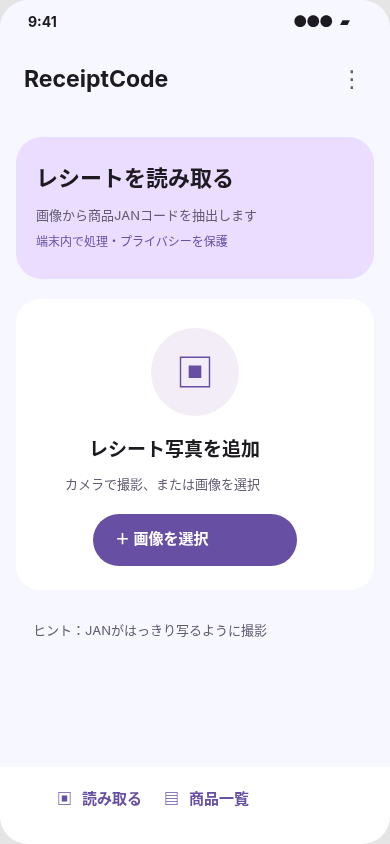
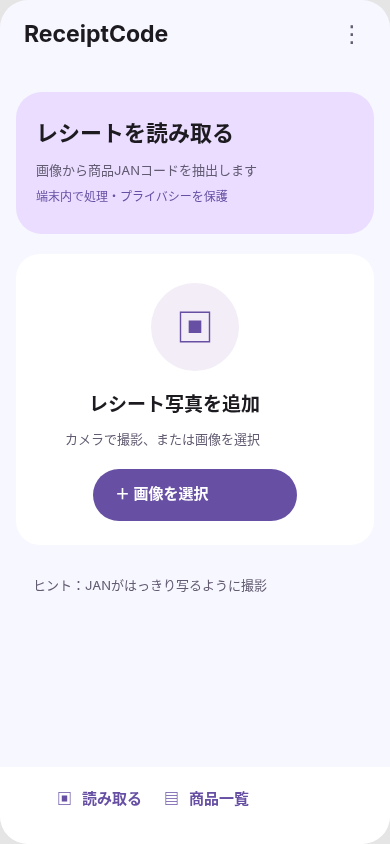
疑似ステータスバーを削除し上部の余白を詰める

diff --git a/src/styles.css b/src/styles.css
@@ -40,8 +40,6 @@ main:focus { outline: none; }
 .visually-hidden { position: absolute !important; width: 1px; height: 1px; padding: 0; margin: -1px; overflow: hidden; clip: rect(0, 0, 0, 0); white-space: nowrap; border: 0; }
 /* 390 × 844 is the reference canvas. Extra content grows vertically. */
 .app { position: relative; isolation: isolate; width: 100%; max-width: 390px; min-height: max(844px, 100dvh); margin: 0 auto; display: flex; flex-direction: column; border-radius: 28px; overflow: clip; background: var(--bg); }
-.design-status-bar { height: 45px; flex: 0 0 45px; display: flex; align-items: flex-start; justify-content: space-between; padding: 13px 40px 0 28px; font-size: 14px; font-weight: 700; line-height: 17px; }
-.design-status-icons { font-size: 13px; line-height: 16px; font-weight: 400; white-space: pre; }
 .app-header { height: 72px; flex: 0 0 72px; display: flex; align-items: flex-start; justify-content: space-between; padding: 20px 14px 0 24px; }
 .brand-name { font-size: 23px; line-height: 28px; font-weight: 700; }
 .app-menu { position: relative; margin-top: -10px; }

diff --git a/src/components/AppHeader.tsx b/src/components/AppHeader.tsx
@@ -8,10 +8,6 @@ interface AppHeaderProps {
 export function AppHeader({ onBack, children }: AppHeaderProps) {
   return (
     <>
-      <div className="design-status-bar" aria-hidden="true">
-        <span>9:41</span>
-        {!onBack && <span className="design-status-icons">●●●  ▰</span>}
-      </div>
       <header className="app-header">
         {onBack ? (
           <button type="button" className="button button-quiet back-link" onClick={onBack}>‹ 商品一覧</button>

diff --git a/docs/Material3_Implementation.md b/docs/Material3_Implementation.md
@@ -20,7 +20,7 @@ Figma: https://www.figma.com/design/EkLDLqz36f4daWXms8Xton
 - React / TypeScript / CSS を継続し、依存を追加しない。色・形状・余白をCSSトークンにする。
 - Figmaの390×844の構成を基準に、固定座標をFlex/Gridと最小サイズへ変換。320px、横向き、デスクトップ、文字折り返しに対応する。
 - Inter 400/700のローカルWOFF2（SIL Open Font License）を同梱。日本語はNoto Sans CJK JP等へフォールバックする。外部フォントサービスへの実行時通信はない。
-- Figmaのステータスバー（9:41・記号）も装飾として再現し、アクセシビリティツリーから除外する。端末の実際の時計や電池状態を表すものではない。
+- 時刻・電波・電池を模したステータスバーは表示しない。対応する45pxの領域を削除し、アプリのヘッダーから表示する。
 - 確認画面で各商品のチェック欄を選び、画面下端に固定した件数と「次へ」から次のフローへ進む。一覧順に「バーコード→次へ→バーコード」と連続表示する。末尾では次へ、先頭では前へが無効になる。
 - 商品カード・左アイコンは確認・編集専用。選択件数と「次へ」をスクロール中も固定表示し、前後移動を常時表示して、個別商品のタップからバーコードへ直接遷移しない。未確認・無効JANの除外、再編集での確認解除を維持する。
 - Figmaで全商品が同じモックに遷移する部分を、実際の商品に接続。未確認/無効JANのバーコード表示禁止を維持する。

diff --git a/AGENTS.md b/AGENTS.md
@@ -1,0 +1,3 @@
+# リポジトリの作業ルール
+
+- コミットメッセージは日本語で記述してください。
